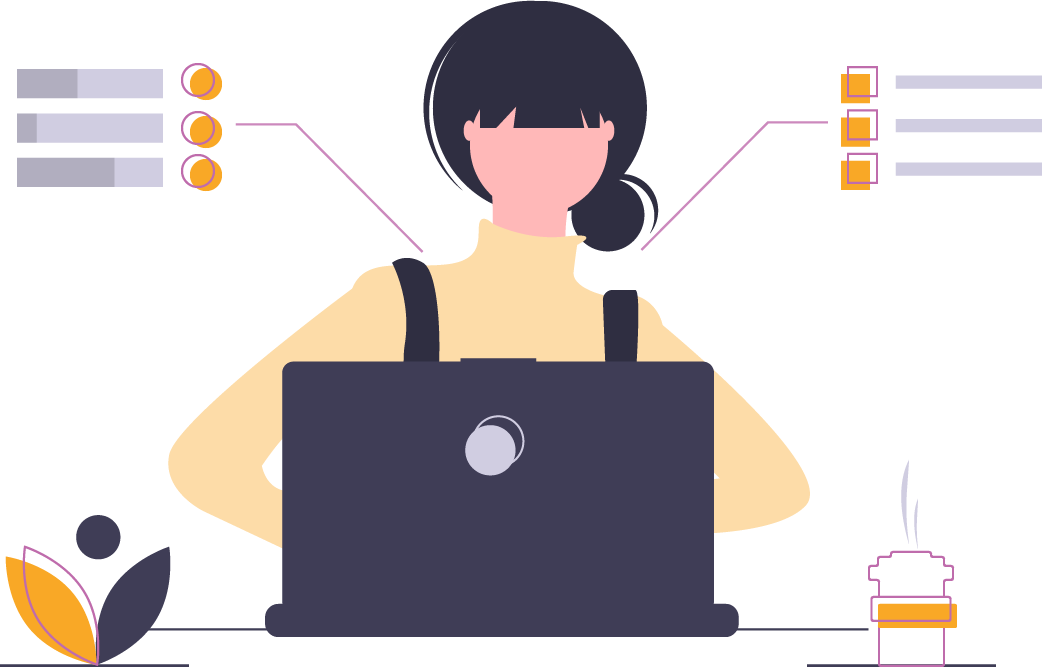
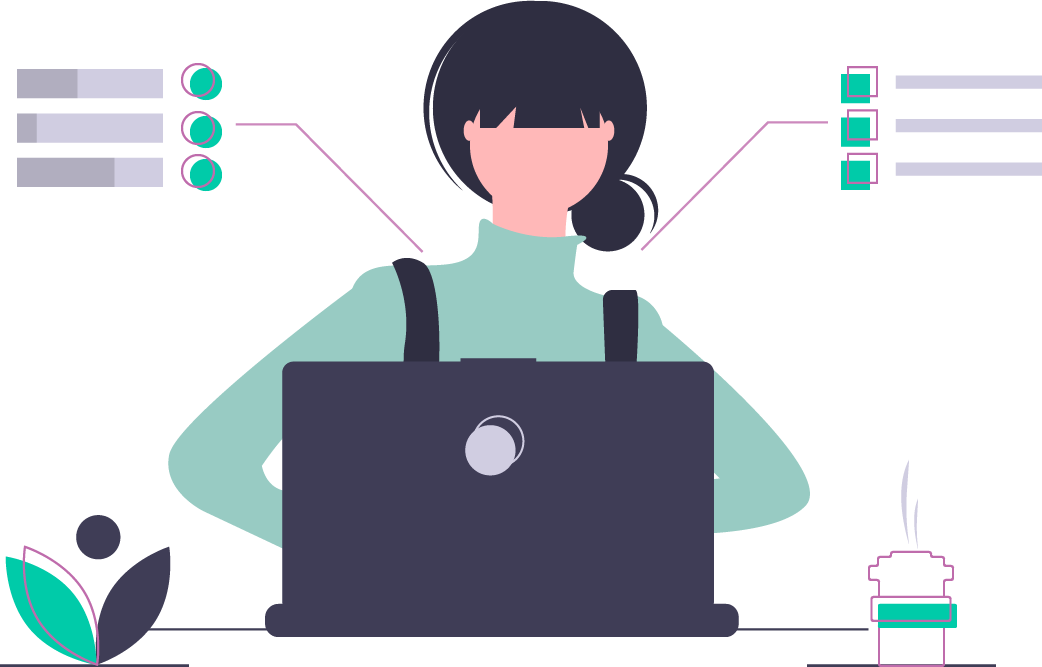
Theme Color Change

diff --git a/src/Pages/Contact/Contact.jsx b/src/Pages/Contact/Contact.jsx
@@ -1,55 +1,61 @@
 import React from "react";
 import "./contact.scss";
-import contactImage from "../../images/undraw_personal_opinions_g3kr2.png";
+import contactImage from "../../images/undraw_personal_opinions_g3kr1.png";
 import { Container, Row, Col, Form } from "react-bootstrap";
 
 export default function Contact() {
   return (
     <div className="contact3 py-5">
-      <Row Name="no-gutters">
+      <Row className="no-gutters">
         <Container>
           <Row>
             <Col lg={7}>
-              <div class="card-shadow">
-                <img src={contactImage} alt="Contact" class="img-fluid" />
+              <div className="card-shadow">
+                <img src={contactImage} alt="Contact" className="img-fluid" />
               </div>
             </Col>
             <Col lg={5}>
-              <div class="contact-box ml-3">
+              <div className="contact-box ml-3">
                 <h1>Quick Contact</h1>
-                <Form class="mt-4">
+                <Form
+                  className="mt-4"
+                  action="mailto:saloniagrawal250797@gmail.com"
+                  method="POST"
+                  enctype="multipart/form-data"
+                  name="EmailForm"
+                >
                   <Row>
                     <Col lg={12}>
-                      <div class="form-group mt-2">
+                      <div className="form-group mt-2">
                         <input
-                          class="form-control"
+                          className="form-control"
                           type="text"
                           placeholder="name"
                         />
                       </div>
                     </Col>
                     <Col lg={12}>
-                      <div class="form-group mt-2">
+                      <div className="form-group mt-2">
                         <input
-                          class="form-control"
+                          className="form-control"
                           type="email"
                           placeholder="email address"
                         />
                       </div>
                     </Col>
                     <Col lg={12}>
-                      <div class="form-group mt-2">
+                      <div className="form-group mt-2">
                         <input
-                          class="form-control"
+                          className="form-control"
                           type="text"
                           placeholder="phone"
                         />
                       </div>
                     </Col>
                     <Col lg={12}>
-                      <div class="form-group mt-2">
+                      <div className="form-group mt-2">
                         <textarea
-                          class="form-control"
+                          className="form-control"
                           rows="3"
                           placeholder="message"
                         ></textarea>

diff --git a/src/styles/app.scss b/src/styles/app.scss
@@ -1,4 +1,8 @@
-$primary-color: #efa649;
+$primary-color: #00cba9;
+
+// h1{
+//   color: $primary-color;
+// }
 
 .site {
   display: flex;
@@ -29,66 +33,16 @@ $primary-color: #efa649;
   text-decoration: none;
   color: $primary-color;
 }
-.stars,
-.twinkling,
-.clouds {
-  position: absolute;
-  top: 0;
-  left: 0;
-  right: 0;
-  bottom: 0;
-  width: 100%;
-  height: 100%;
-  display: block;
-}
-.stars {
-  background: #000
-    url(http://www.script-tutorials.com/demos/360/images/stars.png) repeat top
-    center;
-  z-index: 0;
+
+img, footer{
+  animation: image-load 1.5s ease-in-out;
 }
 
-.twinkling {
-  background: transparent
-    url(http://www.script-tutorials.com/demos/360/images/twinkling.png) repeat
-    top center;
-  z-index: 1;
-
-  -moz-animation: move-twink-back 200s linear infinite;
-  -ms-animation: move-twink-back 200s linear infinite;
-  -o-animation: move-twink-back 200s linear infinite;
-  -webkit-animation: move-twink-back 200s linear infinite;
-  animation: move-twink-back 200s linear infinite;
-}
-@keyframes move-twink-back {
-  from {
-    background-position: 0 0;
+@keyframes image-load{
+  0% {
+    opacity: 0;
   }
-  to {
-    background-position: -10000px 5000px;
-  }
-}
-@-webkit-keyframes move-twink-back {
-  from {
-    background-position: 0 0;
-  }
-  to {
-    background-position: -10000px 5000px;
-  }
-}
-@-moz-keyframes move-twink-back {
-  from {
-    background-position: 0 0;
-  }
-  to {
-    background-position: -10000px 5000px;
-  }
-}
-@-ms-keyframes move-twink-back {
-  from {
-    background-position: 0 0;
-  }
-  to {
-    background-position: -10000px 5000px;
+  100% {
+    opacity: 1;
   }
 }

diff --git a/src/Pages/Profile/Profile.jsx b/src/Pages/Profile/Profile.jsx
@@ -1,26 +1,28 @@
 import React from "react";
 import "./profile.scss";
 import devFocus from "../../images/undraw_dev_focus_b9xo3.png";
-import wave from "../../images/wave.svg";
-import {Container,Row, Col} from "react-bootstrap"
+import { Container, Row, Col } from "react-bootstrap";
 
 export default function Profile() {
   return (
     <div>
-    <Container className= "container">
-     <Row>
-     <Col lg={5} xs={12}>
-     <div className="main-heading">
-     <h1>Hi!! I am Saloni</h1>
-     <h1>Software Developer</h1>
-     </div>
-    </Col>
-    <Col lg={7} xs={12}>
-       <img src={devFocus} alt="homepage" className="img-responsive photo" />
-    </Col>
-       </Row>
+      <Container className="container">
+        <Row>
+          <Col lg={5} xs={12}>
+            <div className="main-heading">
+              <h1>Hi!! I am Saloni</h1>
+              <h1>Software Developer</h1>
+            </div>
+          </Col>
+          <Col lg={7} xs={12}>
+            <img
+              src={devFocus}
+              alt="homepage"
+              className="img-responsive photo img-fluid"
+            />
+          </Col>
+        </Row>
       </Container>
-      <img src={wave} alt="homepage" />
     </div>
   );
 }

diff --git a/public/index.html b/public/index.html
@@ -3,12 +3,12 @@
   <head>
     <title>Saloni's Portfolio</title>
     <meta name="viewport" content="width=device-width" />
-    <link rel=”logo” href=”%PUBLIC_URL%/favicon.ico”>
+    <link rel=”logo” href=”%PUBLIC_URL%/favicon.ico” />
     <link
       href="https://fonts.googleapis.com/css2?family=Merriweather+Sans:wght@400;700&display=swap"
       rel="stylesheet"
     />
-    <link rel="stylesheet" href="styles.scss" />
+    <link src="../src/index.scss" rel="stylesheet"/>
   </head>
 
   <body>

diff --git a/src/App.jsx b/src/App.jsx
@@ -5,12 +5,9 @@ import Navbar from "./components/Header";
 import Footer from "./components/Footer";
 import "./styles/app.scss";
 import Pages from "./pages";
-//import Contact from "./pages/Contact"
 
 function App() {
   return (
-    // <div className="stars">
-    //   <div className="twinkling">
     <div className="site">
       <BrowserRouter>
         <Navbar />
@@ -20,8 +17,6 @@ function App() {
         <Footer />
       </BrowserRouter>
     </div>
-    //   </div>
-    // </div>
   );
 }
 

diff --git a/src/Components/Footer/Footer.jsx b/src/Components/Footer/Footer.jsx
@@ -1,11 +1,14 @@
 import React from "react";
 import "./footer.scss";
+import wave from "../../images/wave-bottom.svg";
 
 export default function Footer() {
   const currentYear = new Date().getFullYear();
   return (
-     <footer>
-      <p className="footer-text">@ Copyright {currentYear}</p>
+    <div><img src={wave} alt="footer" />
+      <footer>
+        <p className="footer-text">@ Copyright {currentYear}</p>
     </footer>
+    </div>
   );
 }

diff --git a/src/Pages/Contact/contact.scss b/src/Pages/Contact/contact.scss
@@ -1,4 +1,4 @@
-$primary-color: #efa649;
+$primary-color: #00cba9;
 
 .contact3 h1,
 .contact3 h2,
@@ -6,7 +6,7 @@ $primary-color: #efa649;
 .contact3 h4,
 .contact3 h5,
 .contact3 h6 {
-  color: $primary-color;
+  color: white;
 }
 
 .contact3 h1 {
